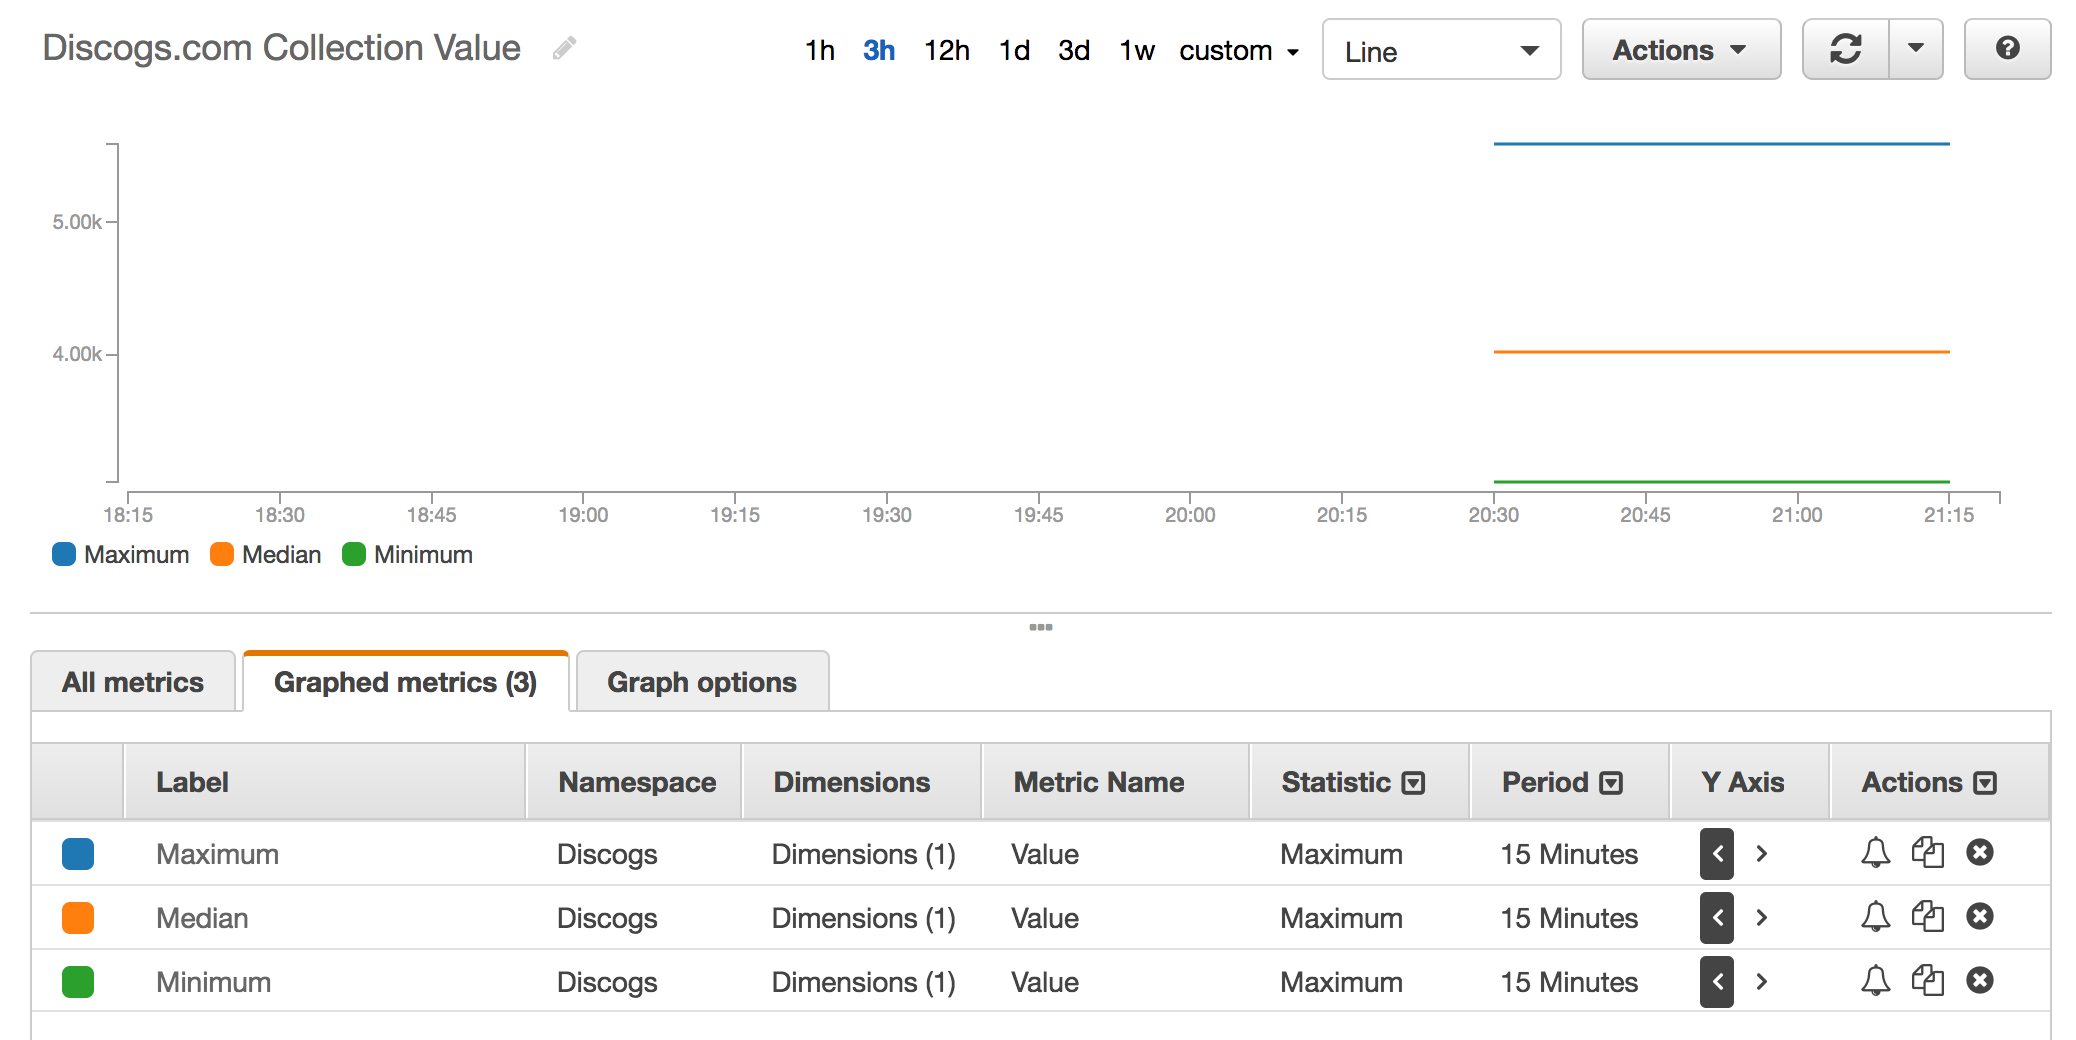
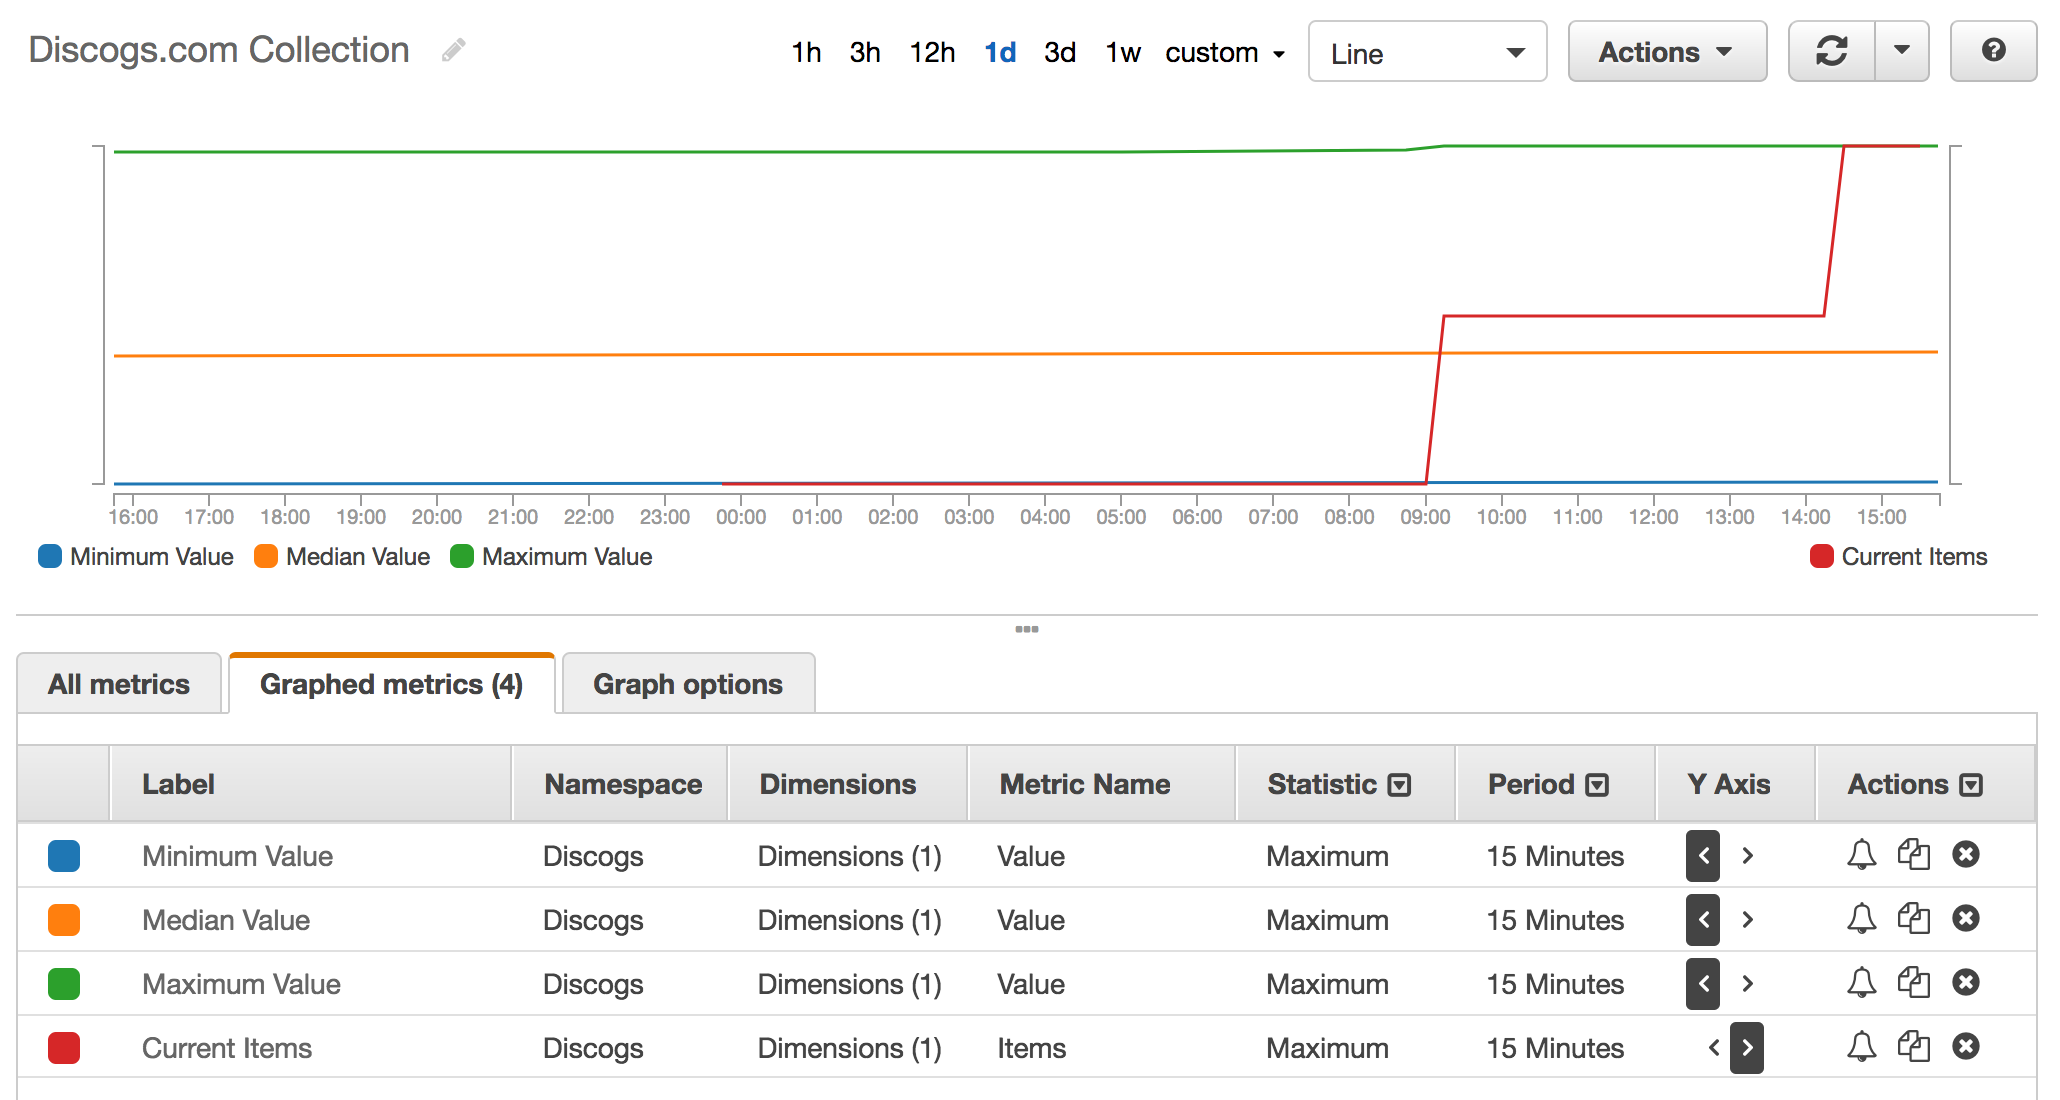
Update configuration

diff --git a/README.md b/README.md
@@ -2,7 +2,7 @@
 
 [![license](https://img.shields.io/github/license/sbstjn/discogs-collection.svg)](https://github.com/sbstjn/discogs-collection/blob/master/LICENSE.md)
 
-Crawl the value of your [Discogs](https://discogs.com) Collection with AWS Lambda and log `maximum`, `minimum`, and `median` values to custom CloudWatch metrics.
+Crawl the value of your [Discogs](https://discogs.com) Collection with AWS Lambda and log `maximum`, `minimum`, and `median` collection values, as well as the number of items in your collection to custom CloudWatch metrics. 
 
 ![Discogs.com Collection Value](/cloudwatch.png)
 
@@ -11,6 +11,10 @@ Crawl the value of your [Discogs](https://discogs.com) Collection with AWS Lambd
 ```bash
 $ > yarn install
 ```
+
+## Configure
+
+Make sure to update your Discogs username in `serverless.yml` or set the `USERNAME` environment variable before you deploy your functions.
 
 ## Deploy
 
